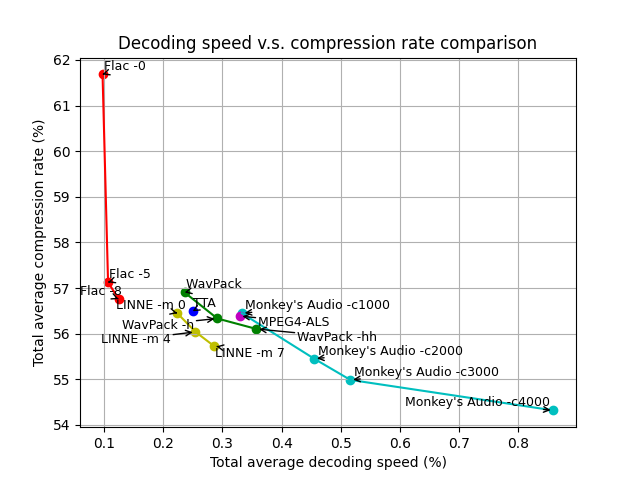
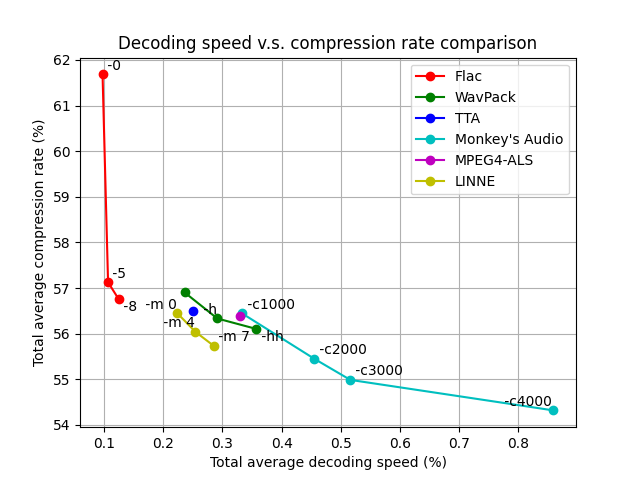
fix figures.

diff --git a/evaluation/plot_total_performance_graph.py b/evaluation/plot_total_performance_graph.py
@@ -14,18 +14,16 @@ if __name__ == "__main__":
         line = [[], []]
         for label in df.keys():
             if label.startswith(cprefix):
-                plt.scatter(df.at['Total mean decode time', label],
-                    df.at['Total mean compression rate', label], label=label, color=COLORLIST[inx])
                 texts.append(plt.text(df.at['Total mean decode time', label],
-                    df.at['Total mean compression rate', label], label, size=9))
+                    df.at['Total mean compression rate', label], label[len(cprefix):], size=10))
                 line[0].append(df.at['Total mean decode time', label])
                 line[1].append(df.at['Total mean compression rate', label])
-        if len(line[0]) > 1:
-            plt.plot(line[0], line[1], color=COLORLIST[inx])
-    adjust_text(texts, arrowprops=dict(arrowstyle='->', color='black'))
+        plt.plot(line[0], line[1], color=COLORLIST[inx], label=cprefix, marker='o')
+    adjust_text(texts)
     plt.title('Decoding speed v.s. compression rate comparison')
     plt.xlabel('Total average decoding speed (%)')
     plt.ylabel('Total average compression rate (%)')
+    plt.legend()
     plt.grid()
     plt.savefig('codec_comparison_decodespeed_vs_compressionrate.png')
     plt.savefig('codec_comparison_decodespeed_vs_compressionrate.pdf')
